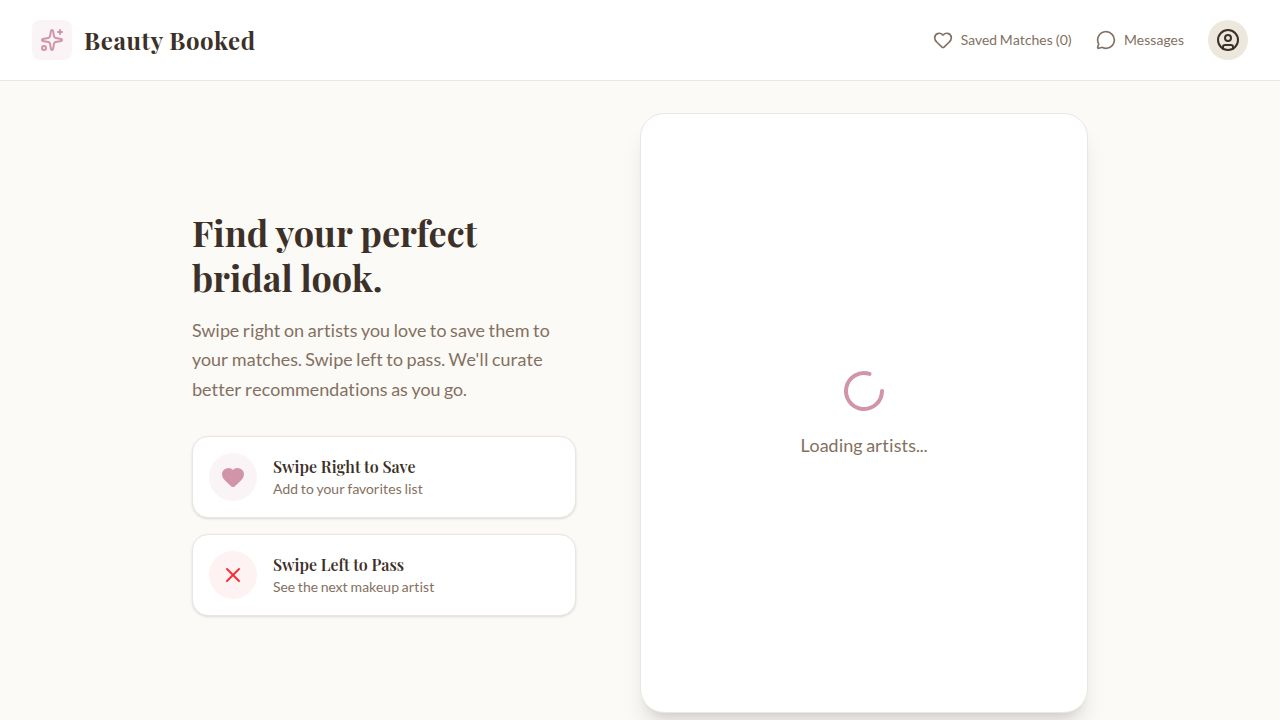
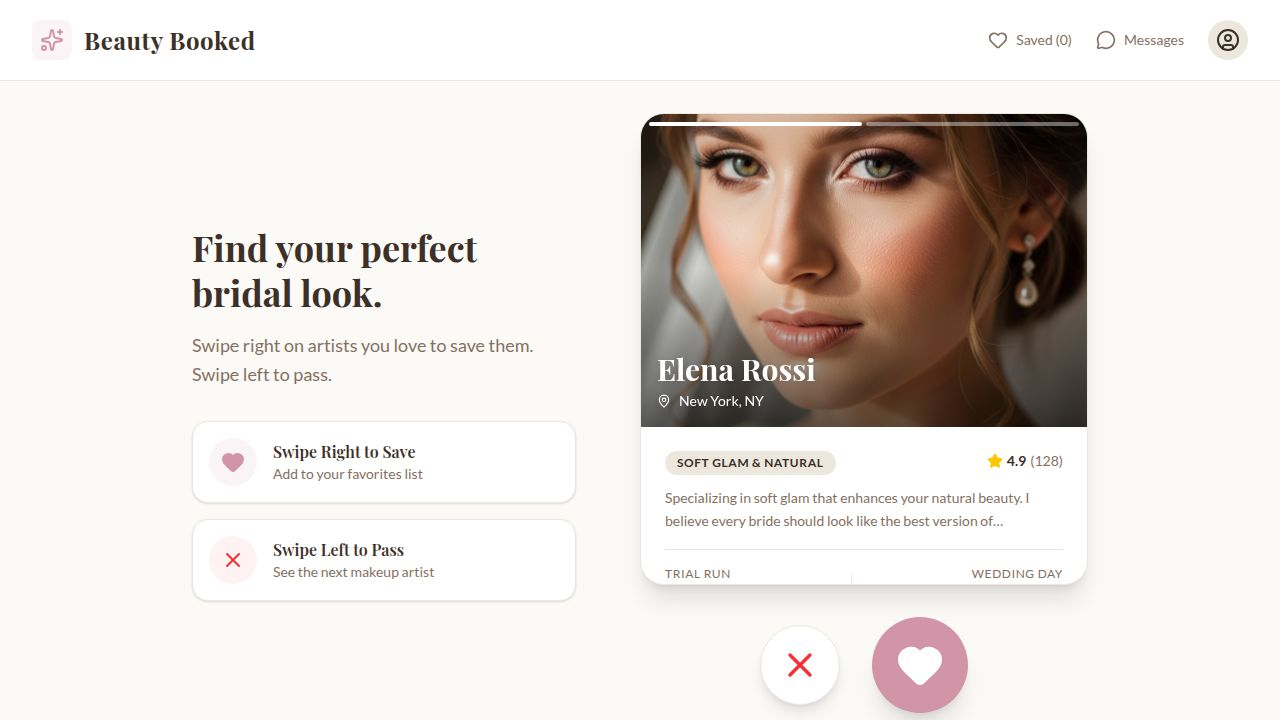
Remove admin panel and Firebase integration, deploying a static site
Removes Admin route, Firebase calls, and replaces dynamic data fetching with static data from `artists.ts`.

Replit-Commit-Author: Agent
Replit-Commit-Session-Id: e392dec0-8eac-4d0c-b64d-9d874785239a
Replit-Commit-Checkpoint-Type: full_checkpoint
Replit-Commit-Event-Id: f22b734b-1d4f-4b66-a44b-b25cb24cca42
Replit-Commit-Screenshot-Url: https://storage.googleapis.com/screenshot-production-us-central1/077b519a-c17e-4a70-aa4a-50c78cc8e68b/e392dec0-8eac-4d0c-b64d-9d874785239a/nEUkYhl
Replit-Helium-Checkpoint-Created: true

diff --git a/client/src/pages/Home.tsx b/client/src/pages/Home.tsx
@@ -1,50 +1,22 @@
-import React, { useState, useEffect } from 'react';
+import React, { useState } from 'react';
 import { AnimatePresence } from 'framer-motion';
-import { Sparkles, UserCircle, Settings2, X, Heart, MessageCircle, Loader2 } from 'lucide-react';
+import { Sparkles, UserCircle, X, Heart, MessageCircle } from 'lucide-react';
 import { SwipeCard } from '../components/SwipeCard';
-import { fetchArtists, Artist } from '../lib/artists';
+import { artists, Artist } from '../data/artists';
 
 export default function Home() {
-  const [allArtists, setAllArtists] = useState<Artist[]>([]);
-  const [deck, setDeck] = useState<Artist[]>([]);
-  const [matches, setMatches] = useState<string[]>([]);
+  const [deck, setDeck] = useState<Artist[]>(artists);
   const [savedArtists, setSavedArtists] = useState<string[]>([]);
-  const [loading, setLoading] = useState(true);
-  const [error, setError] = useState<string | null>(null);
 
-  useEffect(() => {
-    loadArtists();
-  }, []);
-
-  async function loadArtists() {
-    try {
-      setLoading(true);
-      setError(null);
-      const artists = await fetchArtists();
-      setAllArtists(artists);
-      setDeck(artists);
-    } catch (err: any) {
-      console.error('Failed to fetch artists:', err);
-      setError(err.message || 'Failed to load artists');
-    } finally {
-      setLoading(false);
-    }
-  }
-
-  const handleSwipeLeft = () => {
-    setDeck(prev => prev.slice(1));
-  };
+  const handleSwipeLeft = () => setDeck(prev => prev.slice(1));
 
   const handleSwipeRight = () => {
-    const currentArtist = deck[0];
-    setMatches(prev => [...prev, currentArtist.id]);
-    setSavedArtists(prev => [...prev, currentArtist.id]);
+    setSavedArtists(prev => [...prev, deck[0].id]);
     setDeck(prev => prev.slice(1));
   };
 
   return (
     <div className="min-h-screen bg-background flex flex-col w-full">
-      {/* Web App Header */}
       <header className="px-8 py-5 border-b border-border bg-white sticky top-0 z-30">
         <div className="max-w-7xl mx-auto flex items-center justify-between">
           <div className="flex items-center gap-3">
@@ -53,11 +25,11 @@ export default function Home() {
             </div>
             <h1 className="text-2xl font-serif font-bold text-foreground tracking-wide">Beauty Booked</h1>
           </div>
-          
+
           <div className="flex items-center gap-6">
-            <button className="flex items-center gap-2 text-muted-foreground hover:text-primary transition-colors font-medium text-sm group">
-              <Heart size={20} className={savedArtists.length > 0 ? "fill-primary text-primary" : ""} />
-              <span>Saved Matches ({savedArtists.length})</span>
+            <button className="flex items-center gap-2 text-muted-foreground hover:text-primary transition-colors font-medium text-sm">
+              <Heart size={20} className={savedArtists.length > 0 ? 'fill-primary text-primary' : ''} />
+              <span>Saved ({savedArtists.length})</span>
             </button>
             <button className="flex items-center gap-2 text-muted-foreground hover:text-primary transition-colors font-medium text-sm">
               <MessageCircle size={20} />
@@ -70,17 +42,12 @@ export default function Home() {
         </div>
       </header>
 
-      {/* Main Content Area - Swipe UI Centered */}
       <main className="flex-1 w-full flex items-center justify-center p-8 bg-[radial-gradient(ellipse_at_top_right,_var(--tw-gradient-stops))] from-primary/5 via-background to-background">
-        
-        {/* Left column - Context/Empty State info (visible on larger screens) */}
         <div className="hidden lg:flex flex-col max-w-sm mr-16">
           <h2 className="text-4xl font-serif font-bold mb-4 leading-tight">Find your perfect bridal look.</h2>
           <p className="text-lg text-muted-foreground mb-8 leading-relaxed">
-            Swipe right on artists you love to save them to your matches. 
-            Swipe left to pass. We'll curate better recommendations as you go.
+            Swipe right on artists you love to save them. Swipe left to pass.
           </p>
-          
           <div className="space-y-4">
             <div className="flex items-center gap-4 p-4 bg-white rounded-2xl border border-border shadow-sm">
               <div className="w-12 h-12 rounded-full bg-primary/10 flex items-center justify-center shrink-0">
@@ -103,74 +70,50 @@ export default function Home() {
           </div>
         </div>
 
-        {/* Center - The Swipe Deck */}
         <div className="relative w-full max-w-md h-[70vh] min-h-[600px] flex flex-col">
           <div className="relative flex-1 w-full">
-            {loading ? (
-              <div className="absolute inset-0 flex flex-col items-center justify-center text-center px-8 bg-white rounded-3xl shadow-xl border border-border">
-                <Loader2 className="animate-spin text-primary mb-4" size={48} />
-                <p className="text-lg text-muted-foreground">Loading artists...</p>
-              </div>
-            ) : error ? (
-              <div className="absolute inset-0 flex flex-col items-center justify-center text-center px-8 bg-white rounded-3xl shadow-xl border border-border">
-                <div className="w-24 h-24 bg-red-50 rounded-full flex items-center justify-center mb-6">
-                  <X className="text-red-500" size={40} />
-                </div>
-                <h2 className="text-2xl font-serif font-bold mb-3">Something went wrong</h2>
-                <p className="text-muted-foreground mb-6">{error}</p>
-                <button 
-                  onClick={loadArtists}
-                  className="bg-primary text-primary-foreground px-8 py-3 rounded-full font-semibold hover:bg-primary/90 transition-all shadow-lg active:scale-95"
-                  data-testid="button-retry"
-                >
-                  Try Again
-                </button>
-              </div>
-            ) : (
-              <AnimatePresence>
-                {deck.length > 0 ? (
-                  deck.map((artist, index) => (
-                    <SwipeCard
-                      key={artist.id}
-                      artist={artist}
-                      active={index === 0}
-                      onSwipeLeft={handleSwipeLeft}
-                      onSwipeRight={handleSwipeRight}
-                    />
-                  )).reverse()
-                ) : (
-                  <div className="absolute inset-0 flex flex-col items-center justify-center text-center px-8 bg-white rounded-3xl shadow-xl border border-border">
-                    <div className="w-24 h-24 bg-primary/10 rounded-full flex items-center justify-center mb-6">
-                      <Sparkles className="text-primary" size={40} />
-                    </div>
-                    <h2 className="text-3xl font-serif font-bold mb-3">You're all caught up!</h2>
-                    <p className="text-lg text-muted-foreground mb-8">We're searching for more amazing makeup artists in your area.</p>
-                    <button 
-                      onClick={() => setDeck(allArtists)}
-                      className="bg-primary text-primary-foreground px-8 py-4 rounded-full font-semibold text-lg hover:bg-primary/90 transition-all shadow-lg hover:shadow-primary/25 active:scale-95"
-                      data-testid="button-reset-deck"
-                    >
-                      Find More Artists
-                    </button>
+            <AnimatePresence>
+              {deck.length > 0 ? (
+                deck.map((artist, index) => (
+                  <SwipeCard
+                    key={artist.id}
+                    artist={artist}
+                    active={index === 0}
+                    onSwipeLeft={handleSwipeLeft}
+                    onSwipeRight={handleSwipeRight}
+                  />
+                )).reverse()
+              ) : (
+                <div className="absolute inset-0 flex flex-col items-center justify-center text-center px-8 bg-white rounded-3xl shadow-xl border border-border">
+                  <div className="w-24 h-24 bg-primary/10 rounded-full flex items-center justify-center mb-6">
+                    <Sparkles className="text-primary" size={40} />
                   </div>
-                )}
-              </AnimatePresence>
-            )}
+                  <h2 className="text-3xl font-serif font-bold mb-3">You're all caught up!</h2>
+                  <p className="text-lg text-muted-foreground mb-8">More artists coming soon.</p>
+                  <button
+                    onClick={() => setDeck(artists)}
+                    className="bg-primary text-primary-foreground px-8 py-4 rounded-full font-semibold text-lg hover:bg-primary/90 transition-all shadow-lg active:scale-95"
+                    data-testid="button-reset-deck"
+                  >
+                    Start Over
+                  </button>
+                </div>
+              )}
+            </AnimatePresence>
           </div>
 
-          {/* Web Bottom Controls */}
-          {!loading && !error && deck.length > 0 && (
+          {deck.length > 0 && (
             <div className="mt-8 flex justify-center gap-8 items-center z-10">
-              <button 
+              <button
                 onClick={handleSwipeLeft}
-                className="w-20 h-20 bg-white rounded-full flex items-center justify-center shadow-lg border border-border hover:bg-red-50 hover:border-red-200 transition-all transform active:scale-95 group"
+                className="w-20 h-20 bg-white rounded-full flex items-center justify-center shadow-lg border border-border hover:bg-red-50 hover:border-red-200 transition-all active:scale-95 group"
                 data-testid="button-swipe-left"
               >
                 <X size={40} className="text-red-500 group-hover:scale-110 transition-transform" />
               </button>
-              <button 
+              <button
                 onClick={handleSwipeRight}
-                className="w-24 h-24 bg-primary rounded-full flex items-center justify-center shadow-xl hover:bg-primary/90 hover:shadow-primary/30 transition-all transform active:scale-95 group"
+                className="w-24 h-24 bg-primary rounded-full flex items-center justify-center shadow-xl hover:bg-primary/90 transition-all active:scale-95 group"
                 data-testid="button-swipe-right"
               >
                 <Heart size={48} className="text-white fill-white group-hover:scale-110 transition-transform" />

diff --git a/client/src/data/artists.ts b/client/src/data/artists.ts
@@ -27,7 +27,7 @@ export const artists: Artist[] = [
     rating: 4.9,
     reviews: 128,
     bio: 'Specializing in soft glam that enhances your natural beauty. I believe every bride should look like the best version of themselves on their big day.',
-    images: [artist1_1, artist1_2]
+    images: [artist1_1, artist1_2],
   },
   {
     id: '2',
@@ -39,7 +39,7 @@ export const artists: Artist[] = [
     rating: 4.8,
     reviews: 94,
     bio: 'For the bride who wants to make a statement. Bold lashes, flawless contour, and makeup that lasts through tears and dancing.',
-    images: [artist2_1]
+    images: [artist2_1],
   },
   {
     id: '3',
@@ -51,6 +51,6 @@ export const artists: Artist[] = [
     rating: 5.0,
     reviews: 215,
     bio: 'Skin-first approach to bridal beauty. I focus on glowing, hydrated skin and minimal makeup that lets your true self shine through.',
-    images: [artist3_1]
-  }
+    images: [artist3_1],
+  },
 ];

diff --git a/client/src/App.tsx b/client/src/App.tsx
@@ -5,13 +5,11 @@ import { Toaster } from "@/components/ui/toaster";
 import { TooltipProvider } from "@/components/ui/tooltip";
 import NotFound from "@/pages/not-found";
 import Home from "@/pages/Home";
-import Admin from "@/pages/Admin";
 
 function Router() {
   return (
     <Switch>
-      <Route path="/" component={Home}/>
-      <Route path="/admin" component={Admin}/>
+      <Route path="/" component={Home} />
       <Route component={NotFound} />
     </Switch>
   );

diff --git a/client/src/components/SwipeCard.tsx b/client/src/components/SwipeCard.tsx
@@ -1,7 +1,7 @@
 import React, { useState } from 'react';
 import { motion, useMotionValue, useTransform, AnimatePresence } from 'framer-motion';
 import { MapPin, Star, Heart, X, ChevronLeft, ChevronRight } from 'lucide-react';
-import { Artist } from '../lib/artists';
+import { Artist } from '../data/artists';
 
 interface SwipeCardProps {
   artist: Artist;
